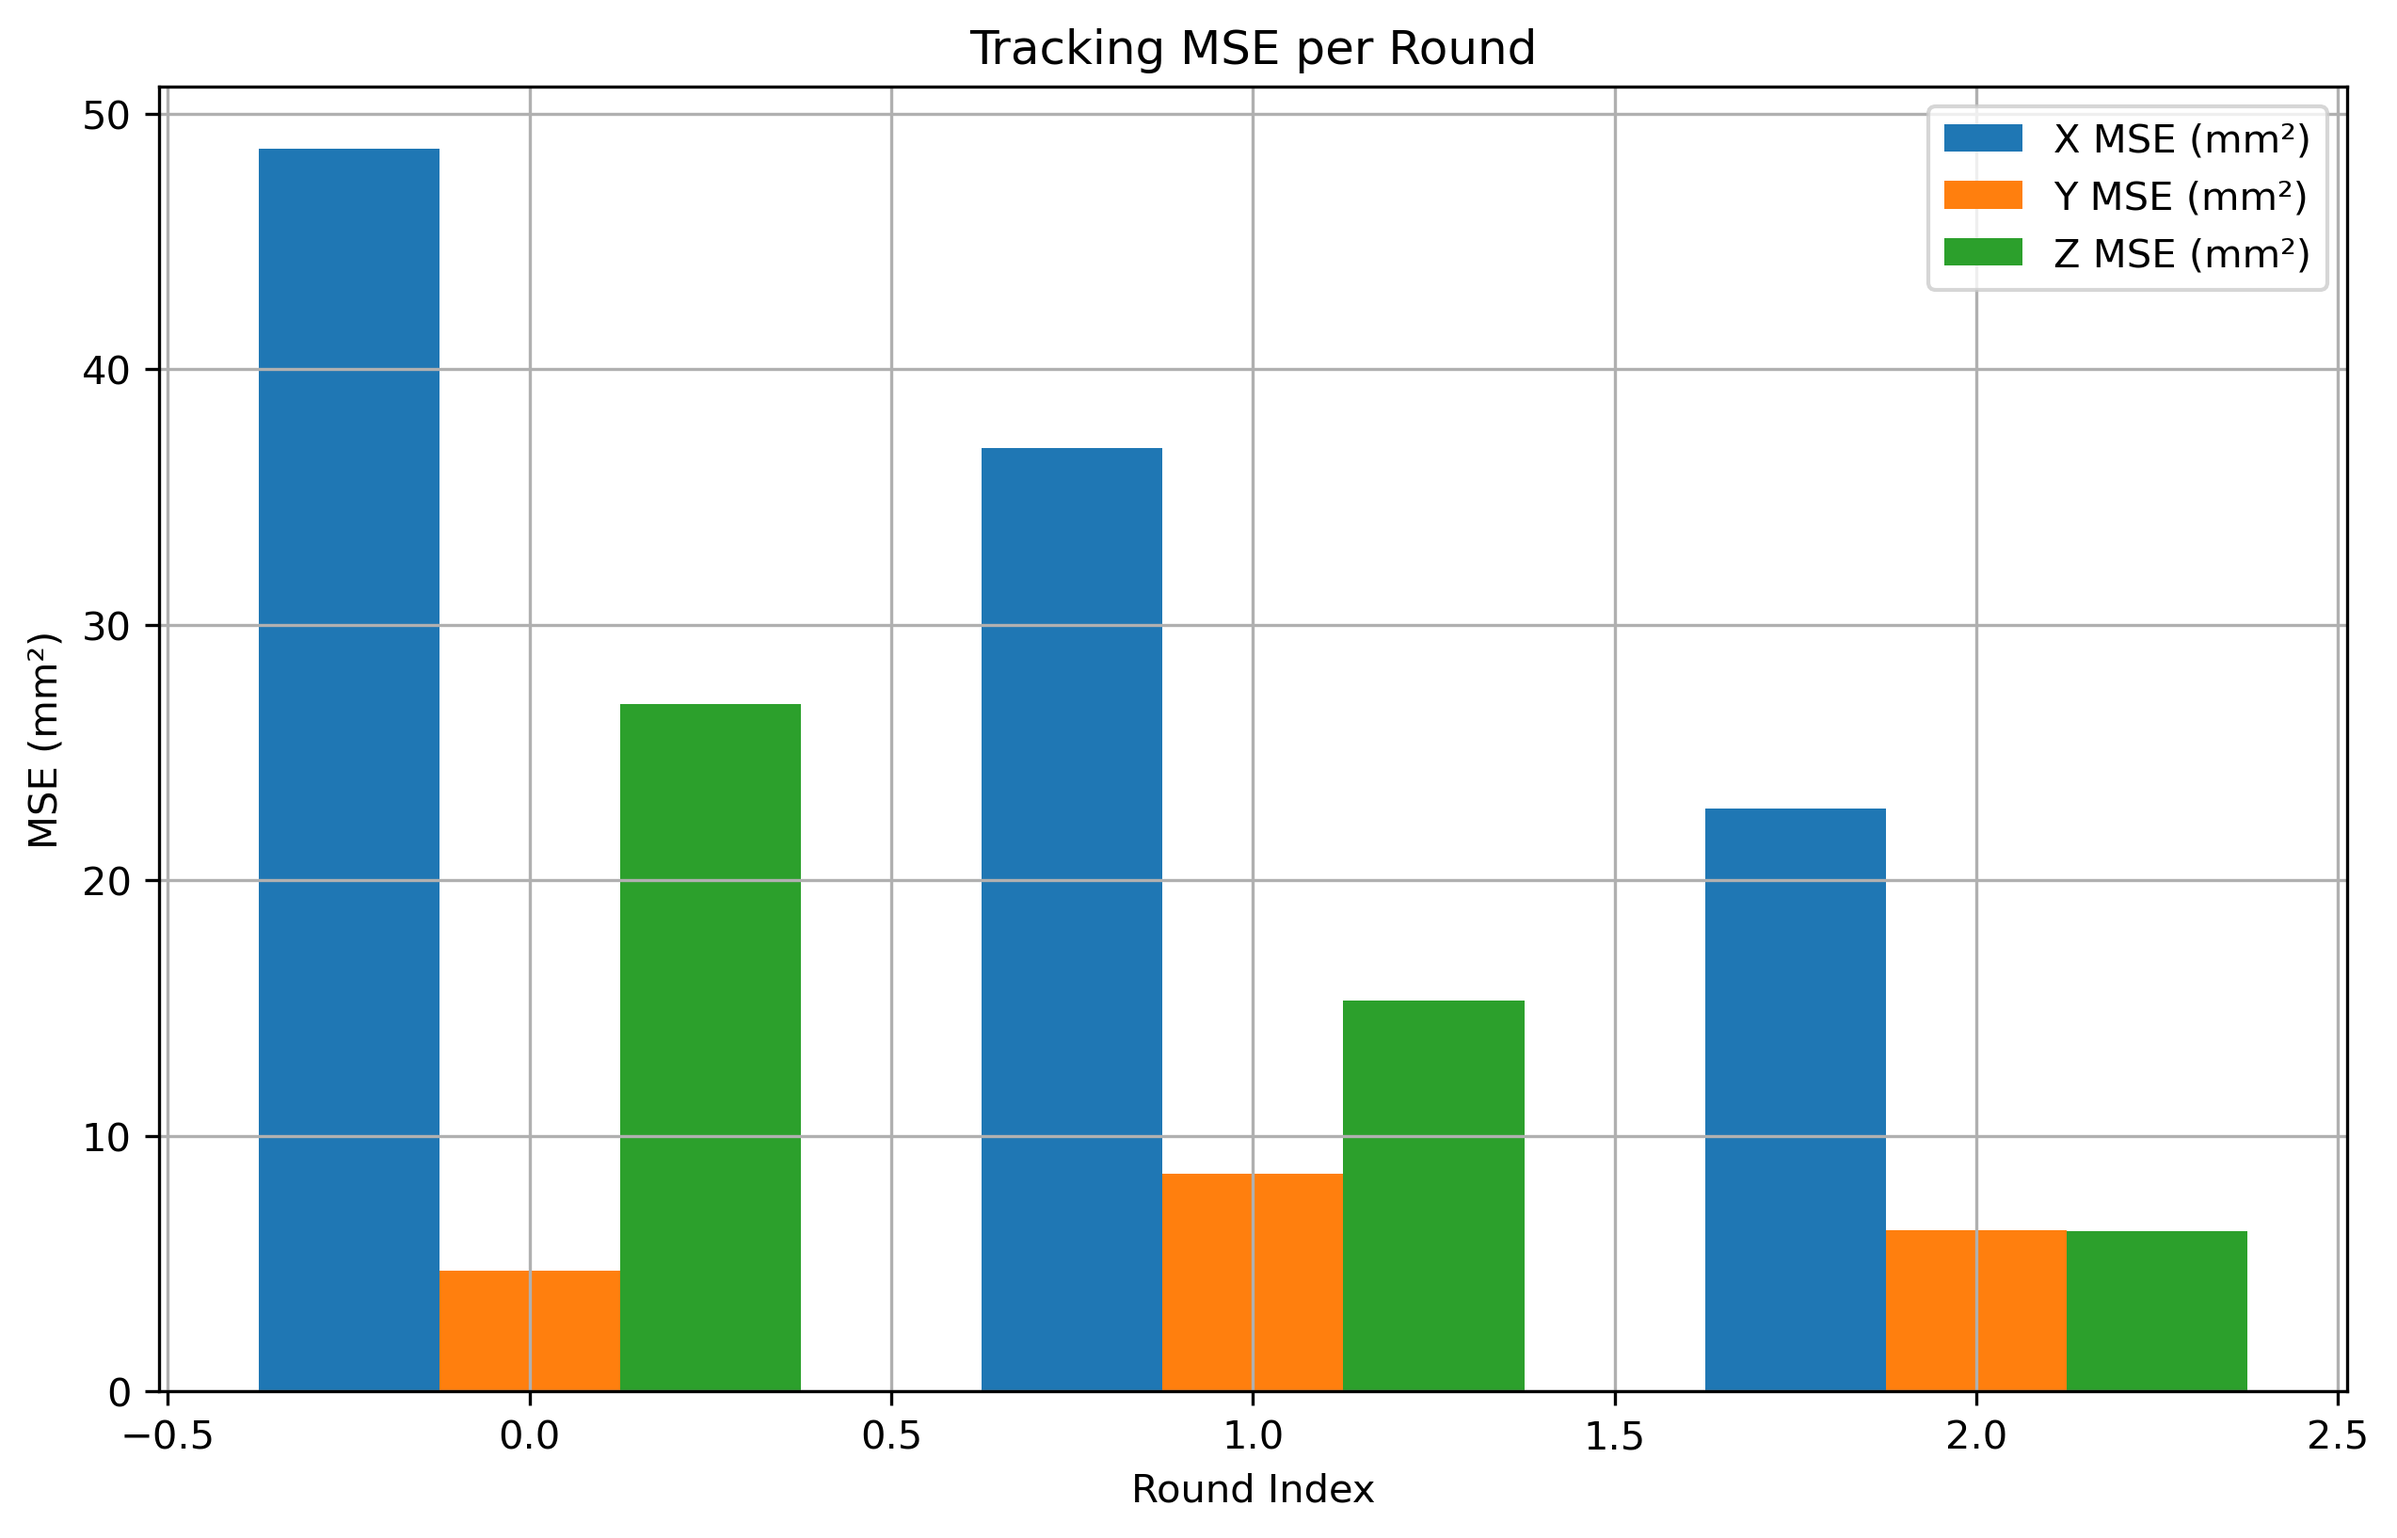
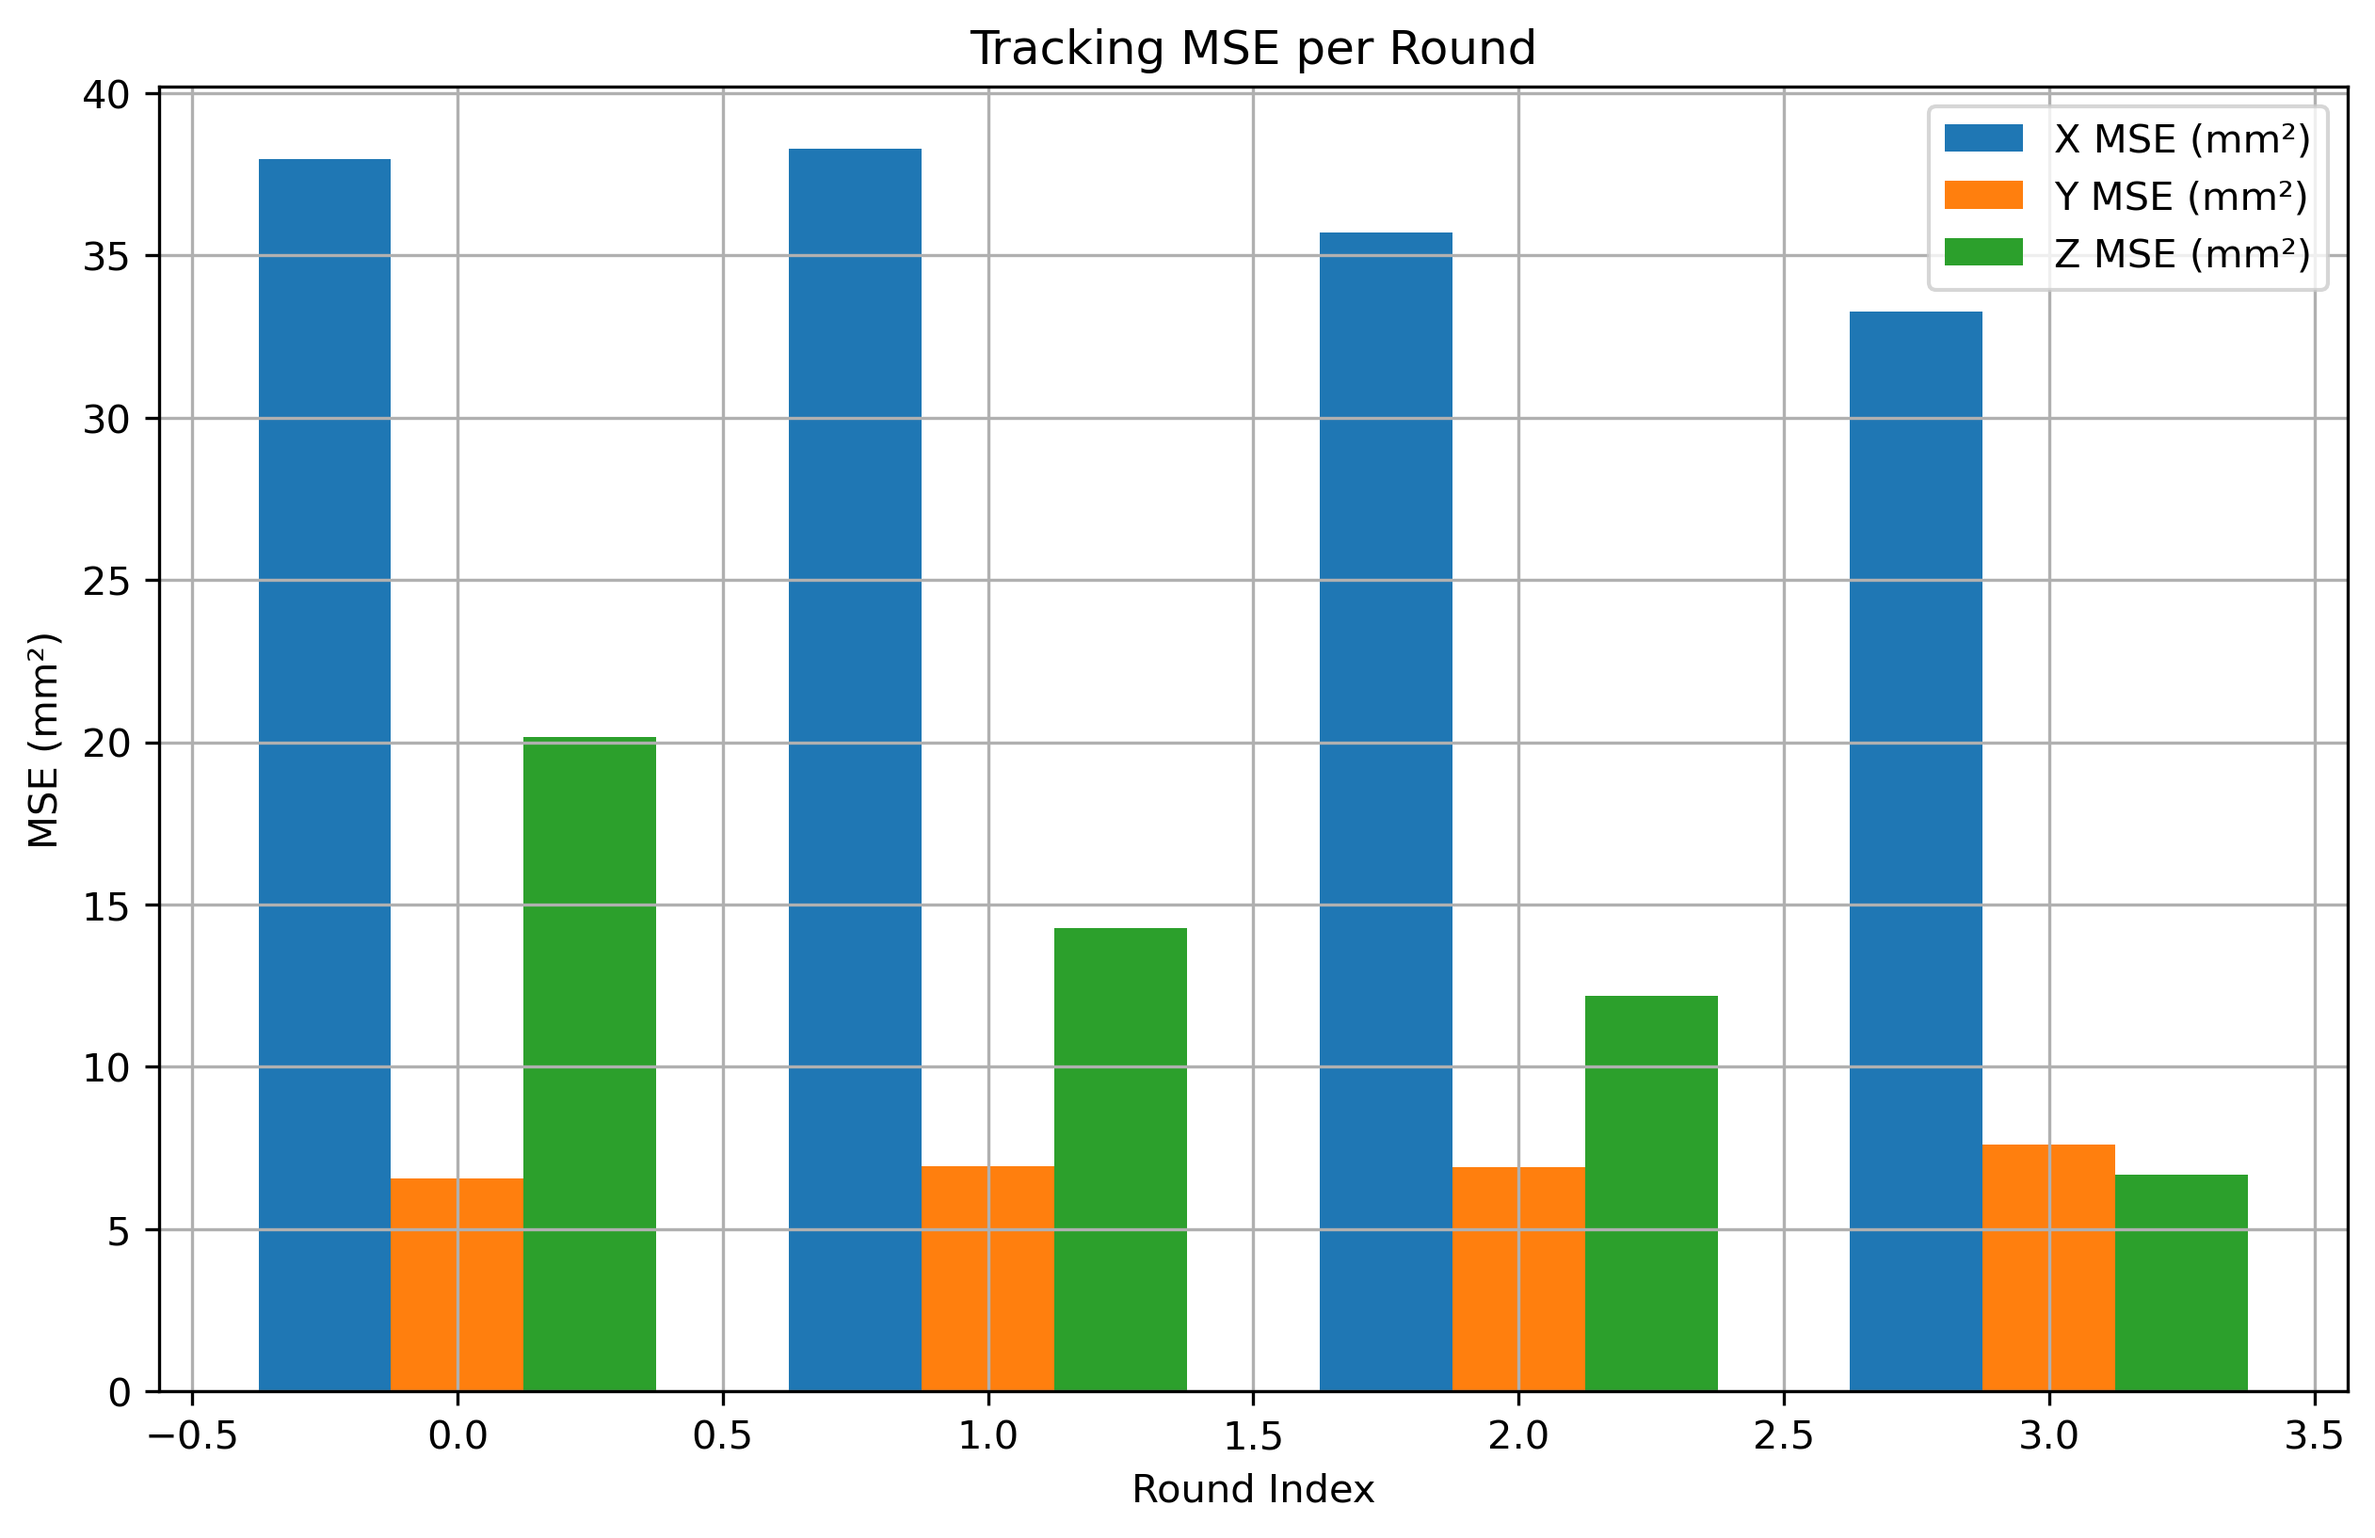
before modifying to real dq instead of desired dq

diff --git a/new_structure/py_controllers/py_controllers/trajectory_publisher.py b/new_structure/py_controllers/py_controllers/trajectory_publisher.py
@@ -77,10 +77,14 @@ class TrajectoryPublisher(Node):
 
         # Ablation parameters
         self.gp_mode_pub = self.create_publisher(String, "/gp_mode", 10)
-        self.modes = ["none", "local", "cloud", "fusion", "history_fusion"]
+        # self.modes = ["none", "local", "cloud", "fusion", "history_fusion"]
+        self.modes = ["local"]
         self.current_mode_index = 0
         self.period = 1.0 / self.frequency
         self.last_round = -1
+
+        self.declare_parameter("rounds_per_mode", 3)
+        self.rounds_per_mode = self.get_parameter("rounds_per_mode").value
 
         self.declare_parameter("max_rounds", 4)
         self.max_rounds = self.get_parameter("max_rounds").value
@@ -277,36 +281,40 @@ class TrajectoryPublisher(Node):
             if current_round != self.last_round:
                 self.last_round = current_round
 
-                # 切换 GP 模式
-                mode_msg = String()
-                mode_msg.data = self.modes[self.current_mode_index]
-                self.gp_mode_pub.publish(mode_msg)
+                # === 是否该切换 mode ===
+                if current_round > 0 and (current_round % self.rounds_per_mode) == 0:
+                    self.current_mode_index = (self.current_mode_index + 1) % len(self.modes)
 
-                self.get_logger().info(
-                    f"[TrajectoryPublisher] === New Round {current_round} | Switching GP Mode → {mode_msg.data}"
-                )
+                    mode_msg = String()
+                    mode_msg.data = self.modes[self.current_mode_index]
+                    self.gp_mode_pub.publish(mode_msg)
 
-                self.current_mode_index = (self.current_mode_index + 1) % len(self.modes)
+                    self.get_logger().info(
+                        f"[TrajectoryPublisher] Switching GP Mode → {mode_msg.data}"
+                    )
+
 
             # ========== Auto stop here ==========
-            if current_round >= self.max_rounds:
+            total_rounds = self.rounds_per_mode * len(self.modes)
+
+            if current_round >= total_rounds:
                 self.get_logger().info(
-                    f"Reached max rounds ({self.max_rounds}), stopping trajectory publisher..."
+                    f"Reached total {total_rounds} rounds, stopping trajectory publisher..."
                 )
 
-                # 1. 停止 recording
+                # Stop recording
                 stop_msg = Bool()
                 stop_msg.data = False
                 self.data_recording_publisher.publish(stop_msg)
 
-                # 2. 通知 controller 停止
+                # Notify controller
                 shutdown_msg = Bool()
                 shutdown_msg.data = True
                 self.shutdown_pub.publish(shutdown_msg)
 
-                # 3. 自己退出
                 rclpy.shutdown()
                 return
+
 
     def get_future_task_space(self, t_delay):
         """

diff --git a/new_structure/py_controllers/py_controllers/cartesian_impedance.py b/new_structure/py_controllers/py_controllers/cartesian_impedance.py
@@ -452,19 +452,26 @@ class CartesianImpedanceController(Node):
                 self.gp_counter += 1
                 if self.gp_counter % self.gp_stride == 0:
                     # 1) 本地 GP 立刻算一次（同步）
+                    # self.y_hat_local = self._gp_predict_and_update(
+                    #     self.q,
+                    #     self.dq_des_joint,
+                    #     self.ddq_des_joint,
+                    #     self.tau_residual_filtered,
+                    # )
                     self.y_hat_local = self._gp_predict_and_update(
                         self.q,
-                        self.dq_des_joint,
+                        dq,
                         self.ddq_des_joint,
                         self.tau_residual_filtered,
-                    )
+                    )   
 
                     # 2) 云端 GP：发异步请求（同一时刻的 q/dq/ddq/残差）
                     if self.gp_client.service_is_ready():
                         # print("updating!!!!!!!!!!!!!!!!!")
                         req = AsyncGPpredict.Request()
                         req.q = self.q.astype(np.float32).tolist()
-                        req.dq_des_joint = self.dq_des_joint.astype(np.float32).tolist()
+                        # req.dq_des_joint = self.dq_des_joint.astype(np.float32).tolist()
+                        req.dq_des_joint = dq.astype(np.float32).tolist()
                         req.ddq_des_joint = self.ddq_des_joint.astype(np.float32).tolist()
                         req.tau_residual = self.tau_residual_filtered.astype(np.float32).tolist()
 

diff --git a/new_structure/plot_data/plot_data/plot_data.py b/new_structure/plot_data/plot_data/plot_data.py
@@ -12,32 +12,6 @@ def cols_1to7(df, prefix):
     # prefix 末尾自己带下划线，如 'tau_', 'tau_measured_', 'gravity_', 'y_hat_', 'tau_residual_'
     return [f'{prefix}{i}' for i in range(1, 8) if f'{prefix}{i}' in df.columns]
 
-def split_by_round(df, frequency):
-    """
-    根据 Time(s) 列和圆频率 frequency 自动切分成若干圈。
-    返回: list_of_df_rounds
-    """
-    if "Time(s)" not in df.columns:
-        raise ValueError("CSV 缺少 Time(s) 列")
-
-    T = 1.0 / frequency             # 一圈时间
-    time = df["Time(s)"].values
-
-    rounds = []
-    current_round = 0
-    
-    # 找到数据中总共有几圈
-    max_round = int(time[-1] / T) + 1
-
-    for r in range(max_round):
-        mask = (time >= r*T) & (time < (r+1)*T)
-        df_r = df[mask].copy()
-        if len(df_r) > 10:          # 太少点的不要
-            df_r["Time_round"] = df_r["Time(s)"] - r*T
-            rounds.append((r, df_r))
-
-    return rounds
-
 
 def plot_data_from_csv(csv_filename):
     """plot data from CSV file"""
